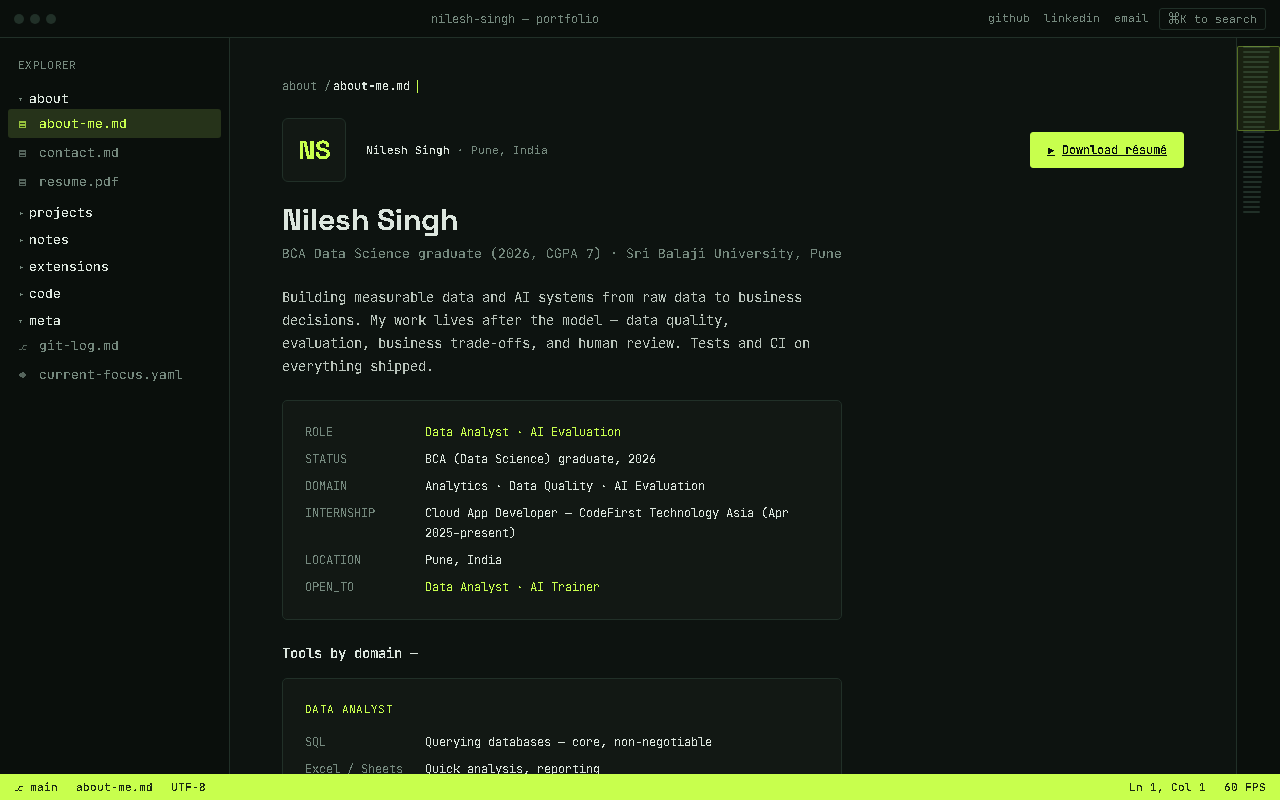
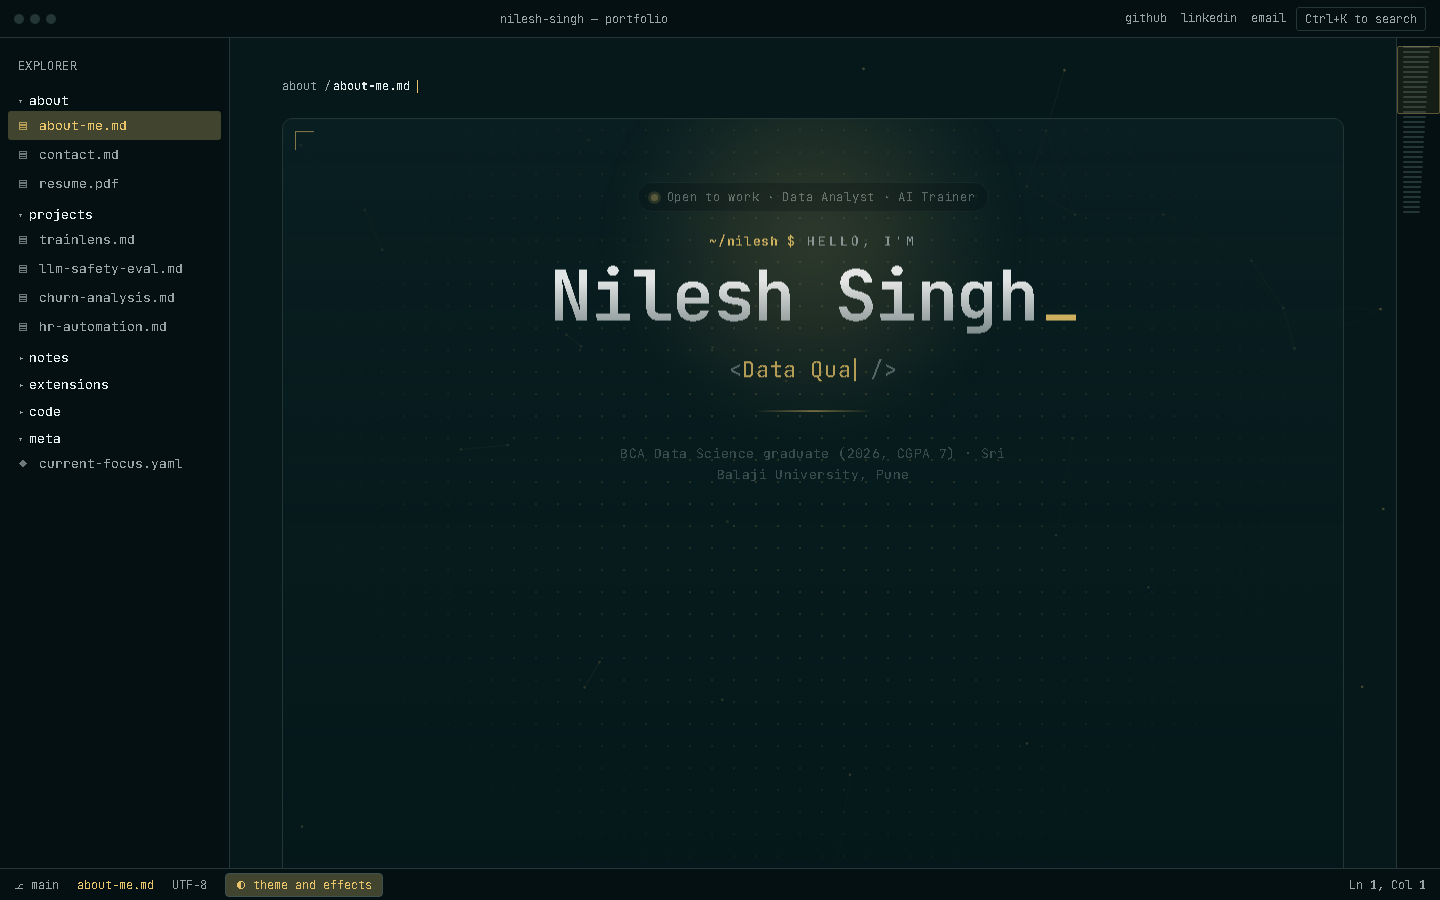
Refresh repo visuals: new hero + 10-theme gallery, drop orphaned screenshots, rewrite README

diff --git a/README.md b/README.md
@@ -2,60 +2,94 @@
 
 [![Live Demo](https://img.shields.io/badge/Live-nilesh--portfolio--three.vercel.app-CAFF3C?style=flat-square&logo=vercel&logoColor=black)](https://nilesh-portfolio-three.vercel.app/)
 [![Built with HTML/CSS/JS](https://img.shields.io/badge/Built%20with-HTML%20%C2%B7%20CSS%20%C2%B7%20Vanilla%20JS-060D08?style=flat-square)](#tech-stack)
+[![10 themes](https://img.shields.io/badge/Themes-10%20colorways-E9C46A?style=flat-square)](#-10-themes)
 [![License: MIT](https://img.shields.io/badge/License-MIT-060D08?style=flat-square)](LICENSE)
 
-A personal portfolio site styled as a VS Code editor window — file explorer sidebar, tabs, and a Markdown-preview-style renderer — built to present my work as Data Analyst / AI Evaluation projects rather than a typical "about me" page.
+A personal portfolio styled as a **VS Code editor window** — file explorer sidebar, command palette (`Ctrl+K`), animated hero, and Markdown-preview-style project pages — presenting work as **Data Analyst / AI Evaluation** case studies rather than a typical "about me" page.
 
 **Live site:** https://nilesh-portfolio-three.vercel.app/
 
-![Portfolio preview](assets/preview.png)
+![Portfolio hero — Deep teal and gold (default theme)](assets/preview.png)
 
 ---
 
-## Overview
+## ✨ Highlights
 
-The site is laid out like a code editor, with the sidebar acting as navigation between sections:
+- **Editor metaphor, fully interactive** — boot-up typing sequence, explorer sidebar, tabs, status bar, `Ctrl+K` command palette, keyboard-navigable files
+- **10 switchable colorways** — dark phosphor terminals, neon neons, plus two light paper themes; persisted via `localStorage`, one click in the *theme and effects* panel
+- **Motion with manners** — typing hero, staggered pane entrances, magnetic buttons, spotlight cards, scroll-free layout, all disabled under `prefers-reduced-motion`
+- **Evaluation-first projects** — TrainLens (98.85% data-quality score), 9-dimension LLM Safety Benchmark, cost-sensitive Churn Analysis, HR Automation Suite
+- **One-click résumé** — the one-page PDF is embedded in the page and downloads instantly, always in sync with the site
+- **Zero build step** — a single `index.html`, no bundler, no framework, auto-deployed on Vercel
 
-- **about** — `about-me`, `how-i-work`
-- **capabilities** — data cleaning & EDA, machine learning, data visualization, SQL & databases
+## 🎨 10 themes
+
+| # | Theme | Background | Accent |
+|---|-------|------------|--------|
+| 00 | Amber phosphor | `#0D1310` | `#FFB454` |
+| 01 | Ice terminal | `#0B1116` | `#5CE1E6` |
+| 02 | Ink and vermilion | `#0F0F12` | `#FF5A36` |
+| 03 | Violet signal | `#0E0B16` | `#B69CFF` |
+| 04 | Midnight and coral | `#0A1020` | `#FF7A8A` |
+| 05 | Graphite and electric blue | `#101114` | `#4D7CFF` |
+| 06 | Deep teal and gold *(default)* | `#06181A` | `#E9C46A` |
+| 07 | Black and magenta | `#0C0A0D` | `#FF3EA5` |
+| 08 | Paper and emerald | `#FAFAF7` | `#0F7B5F` |
+| 09 | Blueprint | `#F4F7FB` | `#1F4FFF` |
+
+| Amber phosphor | Ice terminal |
+|---|---|
+| ![Amber phosphor theme](assets/themes/00-amber-phosphor.png) | ![Ice terminal theme](assets/themes/01-ice-terminal.png) |
+
+| Ink and vermilion | Violet signal |
+|---|---|
+| ![Ink and vermilion theme](assets/themes/02-ink-and-vermilion.png) | ![Violet signal theme](assets/themes/03-violet-signal.png) |
+
+| Midnight and coral | Graphite and electric blue |
+|---|---|
+| ![Midnight and coral theme](assets/themes/04-midnight-and-coral.png) | ![Graphite and electric blue theme](assets/themes/05-graphite-and-electric-blue.png) |
+
+| Deep teal and gold (default) | Black and magenta |
+|---|---|
+| ![Deep teal and gold theme](assets/themes/06-deep-teal-and-gold.png) | ![Black and magenta theme](assets/themes/07-black-and-magenta.png) |
+
+| Paper and emerald | Blueprint |
+|---|---|
+| ![Paper and emerald theme](assets/themes/08-paper-and-emerald.png) | ![Blueprint theme](assets/themes/09-blueprint.png) |
+
+## 🗂 What's inside
+
+- **about** — `about-me`, `contact`, downloadable `resume.pdf`
 - **projects** — TrainLens, LLM Safety & Response Evaluation Benchmark, Customer Churn Analysis, AI HR Automation Suite
-- **blog** — short write-ups on building and evaluating the above projects
-- **bookmarks** — tools, certifications, education
-- **contact** — email, LinkedIn, GitHub
-
-Each "file" in the sidebar renders as a page, in keeping with the editor metaphor (README, Markdown preview, tabs, status bar).
+- **notes** — short write-ups: cost-sensitive thresholds, trusting LLM judges, checking data before models
+- **extensions / code / meta** — skills matrix, representative quality-check excerpt, current focus
 
 ## Tech Stack
 
-- **HTML5 / CSS3** — layout and the editor-chrome styling (sidebar, tabs, status bar)
-- **Vanilla JavaScript** — navigation between sections, no framework or build step
+- **HTML5 / CSS3** — editor chrome, hero, 10-theme CSS-variable engine
+- **Vanilla JavaScript** — navigation, palette, boot sequence, theme/effects panel; no framework
 - **Deployment** — [Vercel](https://vercel.com/)
 
-No bundler, no package manager, no build pipeline — `index.html` is the entire site.
-
-## Project Structure
-
-```
+```text
 nilesh-portfolio/
 ├── index.html      # entire site: markup, styles, and behavior
-├── assets/         # images and static assets
+├── assets/
+│   ├── preview.png # hero screenshot (default theme)
+│   └── themes/     # one screenshot per colorway (00–09)
 ├── .gitignore
 └── README.md
 ```
 
 ## Getting Started
 
-Clone the repo and open it directly — no install step required:
+Clone and open — no install step:
 
 ```bash
 git clone https://github.com/Nilesh-builds/nilesh-portfolio.git
 cd nilesh-portfolio
 ```
 
-Then either:
-
-- Open `index.html` directly in a browser, or
-- Serve it locally so relative asset paths behave the same as in production:
+Then either open `index.html` directly, or serve it so relative paths behave like production:
 
 ```bash
 npx serve .
@@ -65,7 +99,7 @@ python -m http.server 8000
 
 ## Deployment
 
-The site auto-deploys to Vercel on push to `main`. To deploy your own copy:
+Auto-deploys to Vercel on push to `main`. For your own copy:
 
 1. Fork this repo
 2. Import it into [Vercel](https://vercel.com/new)
@@ -74,8 +108,8 @@ The site auto-deploys to Vercel on push to `main`. To deploy your own copy:
 ## Roadmap
 
 - [ ] Add remaining blog posts
-- [ ] Expand the projects index with case-study pages
-- [ ] Add light-theme toggle to complement the editor theme
+- [ ] Expand the projects index with full case-study pages
+- [ ] PWA touches (installable, offline-first static shell)
 
 ## Contact
 
